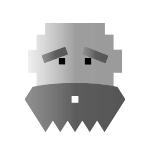
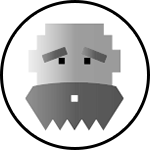
v0.93 - Random pick for stories & some graphics improvements.

diff --git a/grandpy/static/gpb.js b/grandpy/static/gpb.js
@@ -33,11 +33,6 @@ function grandpy_face(expression) {
     switch(expression) {
         case 0: // Welcome face
         console.log("Grandpy face 0");
-        // eyes.classList.remove("eyes-blink");
-        // eyebrow_l.classList.add("eyebrow-l-blink");
-        // eyebrow_r.classList.add("eyebrow-r-blink");
-        // eyes.classList.add("big-eyes");
-        // mouth.classList.add("mouth-blink");
         eyes.classList.add("eyes-blink");
         break;
 
@@ -107,8 +102,11 @@ function write_granpy_responses(response) {
                 response["location"]["longitude"],
                 4000,
             );
-            write_message(response["near"] + response["stories"][0]["name"], 5000);
-            write_message(response["stories"][0]["extract"], 8000);
+            /* get a random place */
+            story_number = Math.floor(Math.random() * response["stories"].length) + 1
+
+            write_message(response["near"] + response["stories"][story_number]["name"], 5000);
+            write_message(response["stories"][story_number]["extract"], 8000);
             write_message(response["end"], 8500);
     
             setTimeout(function(){

diff --git a/grandpy/static/gpb.css b/grandpy/static/gpb.css
@@ -66,14 +66,12 @@ h4 {
 	padding: 10px;
 	margin: 10px;
 	background: #FFF;
-	border: 2px solid #FFF;
+	border: 1px solid #000;
+	box-shadow: rgba(0,0,0,0.5) 1px 1px 3px;
 	min-height: 50px;
 	animation-name: slideup;
 	animation-duration: 0.25s;
 	animation-iteration-count: 1;
-}
-.message-dots {
-	/* Not used yet */
 }
 .user-message {
 	background: #FFF;
@@ -105,7 +103,8 @@ img {
 	min-height: 300px;
 	width: 100%;
 	flex-basis: 80%;
-	border: 2px solid #FFF;
+	border: 1px solid #000;
+	box-shadow: rgba(0,0,0,0.5) 1px 1px 3px;
 }
 
 
@@ -205,7 +204,7 @@ img {
 	align-items: center;
 }
 .dot {
-	background: #555;
+	background: #FFF;
 	border-radius: 10px;
 	animation-name: blink;
 	animation-duration: 1s;
